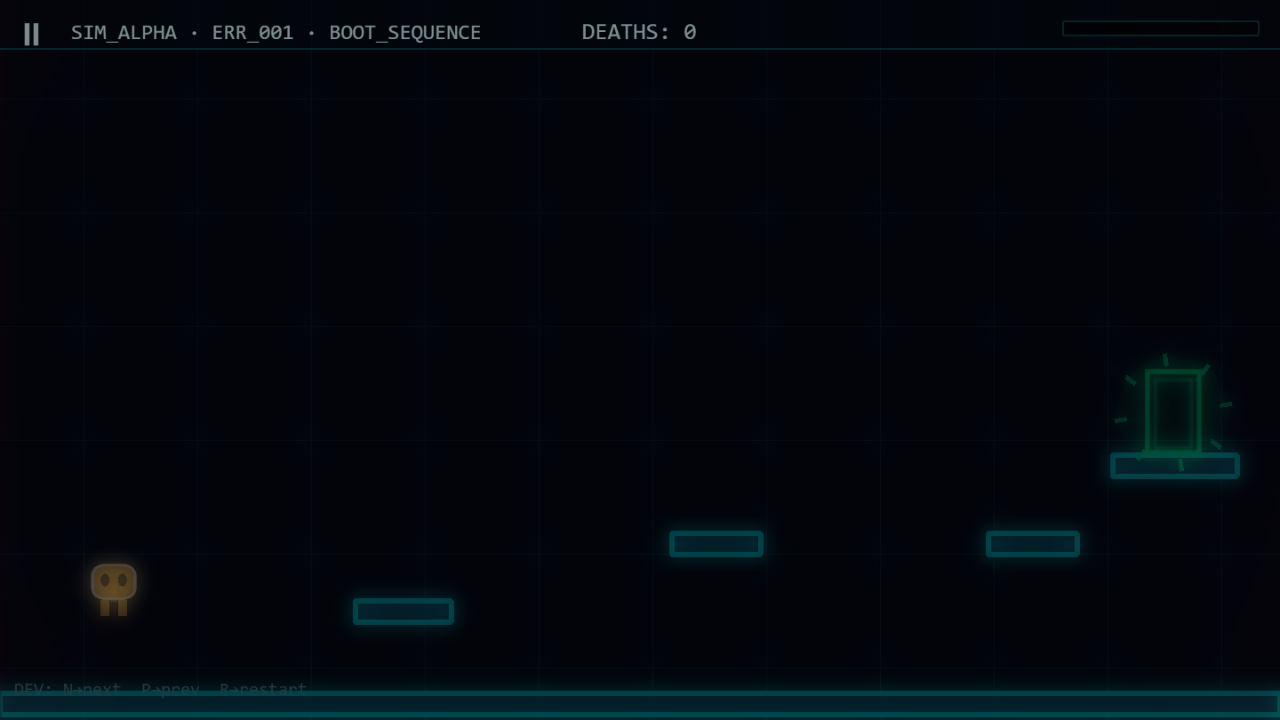
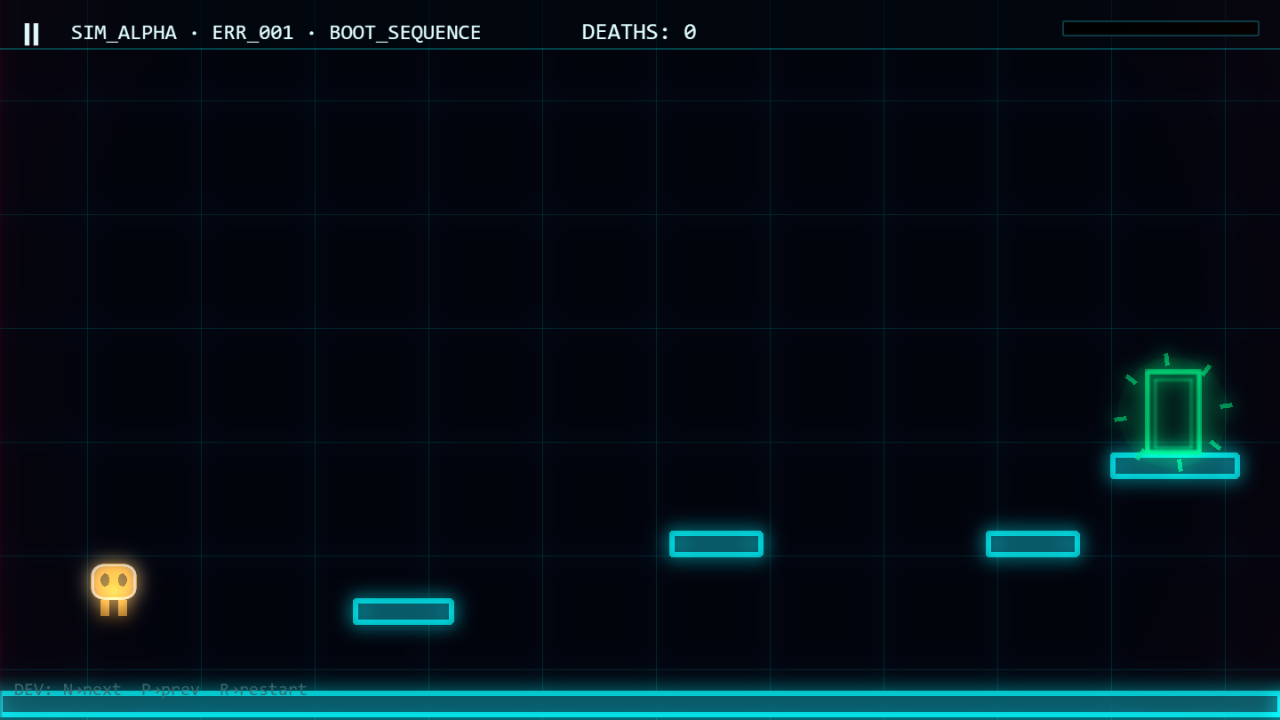
fix(pass3): lower intro-card depth to HUD layer

diff --git a/src/scenes/UIScene.js b/src/scenes/UIScene.js
@@ -147,12 +147,13 @@ export class UIScene extends Phaser.Scene {
   // Cinematic level intro — code glitches in, an accent line sweeps, then fades (non-blocking).
   _introCard(lvl, worldName) {
     const cx = CONFIG.WIDTH / 2, cy = CONFIG.HEIGHT / 2 - 14;
-    const bg = this.add.rectangle(cx, cy, 320, 78, 0x02060a, 0.32).setStrokeStyle(1, COLORS.cyan, 0.25).setDepth(820);
-    const codeR = this.add.text(cx, cy, lvl.code, { ...FONT, fontSize: '38px', color: '#ff2a55' }).setOrigin(0.5).setAlpha(0.6).setDepth(821);
-    const codeB = this.add.text(cx, cy, lvl.code, { ...FONT, fontSize: '38px', color: '#2affff' }).setOrigin(0.5).setAlpha(0.6).setDepth(821);
-    const code = this.add.text(cx, cy, lvl.code, { ...FONT, fontSize: '38px' }).setOrigin(0.5).setDepth(822);
-    const line = this.add.rectangle(cx, cy + 20, 0, 2, COLORS.cyan, 0.85).setOrigin(0.5).setDepth(822);
-    const sub = this.add.text(cx, cy + 32, (lvl.name || worldName), { ...FONT, fontSize: '13px', color: '#6f9aa3' }).setOrigin(0.5).setDepth(822);
+    const D = 50;
+    const bg = this.add.rectangle(cx, cy, 320, 78, 0x02060a, 0.32).setStrokeStyle(1, COLORS.cyan, 0.25).setDepth(D);
+    const codeR = this.add.text(cx, cy, lvl.code, { ...FONT, fontSize: '38px', color: '#ff2a55' }).setOrigin(0.5).setAlpha(0.6).setDepth(D + 1);
+    const codeB = this.add.text(cx, cy, lvl.code, { ...FONT, fontSize: '38px', color: '#2affff' }).setOrigin(0.5).setAlpha(0.6).setDepth(D + 1);
+    const code = this.add.text(cx, cy, lvl.code, { ...FONT, fontSize: '38px' }).setOrigin(0.5).setDepth(D + 2);
+    const line = this.add.rectangle(cx, cy + 20, 0, 2, COLORS.cyan, 0.85).setOrigin(0.5).setDepth(D + 2);
+    const sub = this.add.text(cx, cy + 32, (lvl.name || worldName), { ...FONT, fontSize: '13px', color: '#6f9aa3' }).setOrigin(0.5).setDepth(D + 2);
     const parts = [bg, codeR, codeB, code, line, sub];
     const jit = this.time.addEvent({ delay: 55, loop: true, callback: () => {
       const o = Phaser.Math.Between(-5, 5); codeR.x = cx - 3 + o; codeB.x = cx + 3 - o;